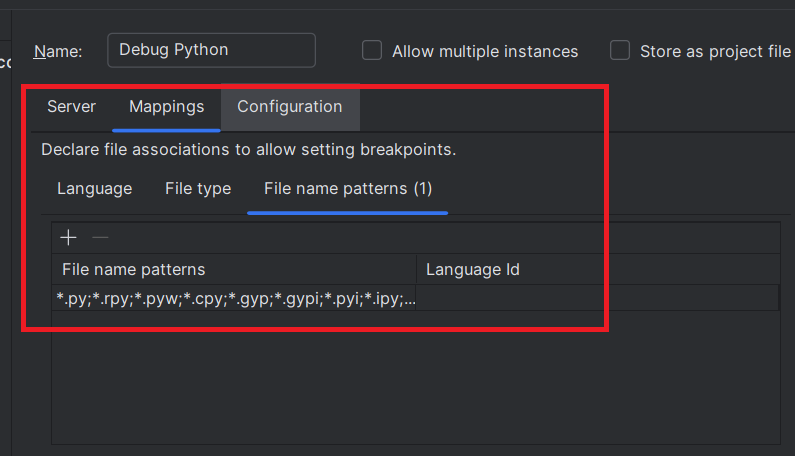
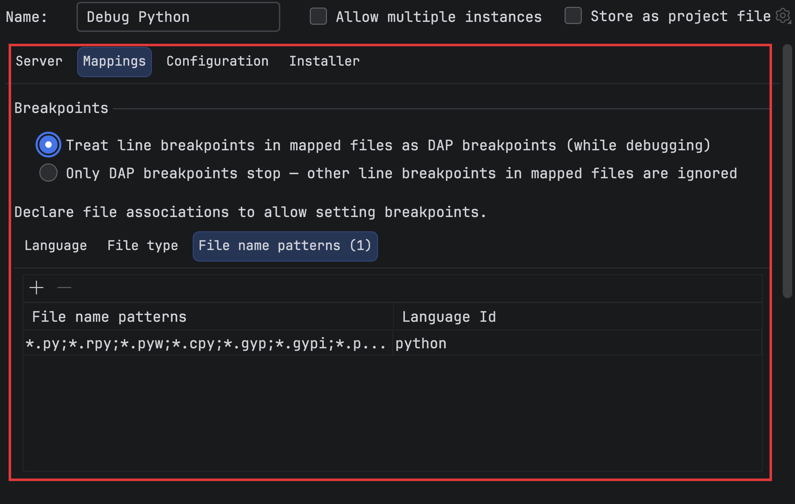
docs(dap): document native line-breakpoint forwarding + refresh Mappings screenshots
Add user documentation for the opt-out breakpoint-forwarding feature:

- UserGuide (Breakpoints): new "Forwarding native line breakpoints" section
  describing the Mappings-tab "Breakpoints" option, plus a "Setting a DAP
  breakpoint explicitly" fallback for when forwarding is off.
- python-debugpy: the "Set Breakpoint" section now leads with the forwarded
  (default) path and keeps the manual two-step as the fallback.
- Re-capture the Mappings-tab screenshots (DAP_config_type_mappings.png,
  python-debugpy/file_mappings.png) so they show the new "Breakpoints" option,
  and add close-ups highlighting it (DAP_breakpoints_option.png,
  python-debugpy/breakpoints_option.png).

The manual two-step instructions and the set_breakpoint_step_1/2 screenshots are
generalised from the closed docs PR #1310 by @scweber-cisco.

Changed region(s): [[0.0, 0.0, 0.9962, 0.9825]]

diff --git a/docs/dap/UserGuide.md b/docs/dap/UserGuide.md
@@ -30,6 +30,10 @@ The `Mappings` tab to specify the files which can be debugged to allow adding/re
 
 ![DAP Configuration Type/Mappings](./images/DAP_config_type_mappings.png)
 
+This tab also hosts a **Breakpoints** option that controls whether a language's native line
+breakpoints in mapped files are forwarded to the DAP server — see
+[Forwarding native line breakpoints](#forwarding-native-line-breakpoints).
+
 ### Configuration tab
 
 The `Configuration` tab to specify the working directory and the file you want to run/debug:
@@ -43,6 +47,47 @@ The `Configuration` tab to specify the working directory and the file you want t
 When a file can be debugged using a DAP server specified in the [Mappings tab](#mappings-tab), a breakpoint can be added.
 
 ![DAP Breakpoint set](./images/DAP_breakpoint_set.png)
+
+### Forwarding native line breakpoints
+
+For a mapped file, LSP4IJ contributes its own **DAP Breakpoint** type. However, when the file's
+language already has its own debugger (for example the bundled JavaScript or Python debugger), the
+IDE may instead create that debugger's **native line breakpoint** in the gutter — not a
+`DAP Breakpoint`. Such a native breakpoint would otherwise never be sent to the DAP server, so it
+looks like "breakpoints don't work" even though the mapping and connection are correct.
+
+To avoid this, LSP4IJ forwards native line breakpoints on mapped files to the DAP server while a DAP
+session is running. This is controlled per run configuration in the [Mappings tab](#mappings-tab):
+
+![Breakpoints option](./images/DAP_breakpoints_option.png)
+
+- **Treat line breakpoints in mapped files as DAP breakpoints (while debugging)** *(default)* — native
+  line breakpoints set in mapped files are forwarded to the DAP server, so they stop like a
+  `DAP Breakpoint` without you having to disable the language's own debugger.
+- **Only DAP breakpoints stop — other line breakpoints in mapped files are ignored** — nothing is
+  forwarded; only breakpoints of the `DAP Breakpoint` type stop. If your breakpoints are not hit with
+  this option, make sure you are using the `DAP Breakpoint` type.
+
+Forwarding only applies while a DAP session for that configuration is running; the language's own
+debugger is unaffected outside a DAP session.
+
+#### Setting a DAP breakpoint explicitly
+
+If forwarding is off — or you prefer to set `DAP Breakpoint`s explicitly — and the file's language
+already has its own line-breakpoint type, IntelliJ needs two steps to place a `DAP Breakpoint` on a
+line that can also hold the native one:
+
+1. Click the line-number gutter to add the language's native line breakpoint (the example below is a
+   Python file):
+
+   ![Set a DAP breakpoint — step 1](./images/python-debugpy/set_breakpoint_step_1.png)
+
+2. Click the faded red dot next to the code on the same line to add a **DAP Breakpoint**:
+
+   ![Set a DAP breakpoint — step 2](./images/python-debugpy/set_breakpoint_step_2.png)
+
+If you only do step 1, the native breakpoint is not sent to the DAP server (when forwarding is off)
+and will not be hit — you must also complete step 2.
 
 ### Verify breakpoint
 

diff --git a/docs/dap/user-defined-dap/python-debugpy.md b/docs/dap/user-defined-dap/python-debugpy.md
@@ -104,10 +104,33 @@ in the IntelliJ console. Read [Python debugging in VS Code](https://code.visuals
 
 ## Set Breakpoint
 
-After applying the run configuration, you should set a breakpoint to files which matches file mappings.
-Set a breakpoint in the `test.py` file:
+After applying the run configuration, set a breakpoint in a file that matches the file mappings — for
+example in `test.py`.
 
-![Set Breakpoint](../images/python-debugpy/set_breakpoint.png)
+Because PyCharm provides its own **Python Line Breakpoint** type, clicking the gutter creates that
+native breakpoint rather than LSP4IJ's `DAP Breakpoint`:
+
+![Set Breakpoint Step 1](../images/python-debugpy/set_breakpoint_step_1.png)
+
+### Forwarded breakpoints (recommended)
+
+By default, LSP4IJ forwards native line breakpoints on mapped files to the DAP server while debugging,
+so the Python breakpoint above is hit as-is — **no extra step needed**. This is the **Breakpoints**
+option in the `Mappings` tab (enabled by default); see
+[Forwarding native line breakpoints](../UserGuide.md#forwarding-native-line-breakpoints).
+
+![Breakpoints option](../images/python-debugpy/breakpoints_option.png)
+
+### Setting a DAP breakpoint manually
+
+If you turn forwarding off (the second option above) — or prefer to set an explicit `DAP Breakpoint` —
+a second step is needed, because the gutter click only created the native Python breakpoint. Click the
+faded red dot next to the code on the same line to add a **DAP Breakpoint**:
+
+![Set Breakpoint Step 2](../images/python-debugpy/set_breakpoint_step_2.png)
+
+Setting only the Python breakpoint (step 1) is then not enough — the breakpoint will not be hit unless
+it is forwarded or you also create the `DAP Breakpoint`.
 
 ## Start Python program in a Terminal
 
